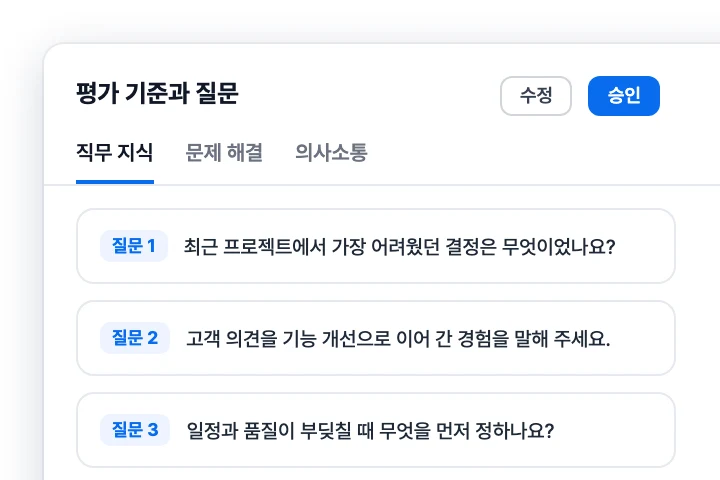
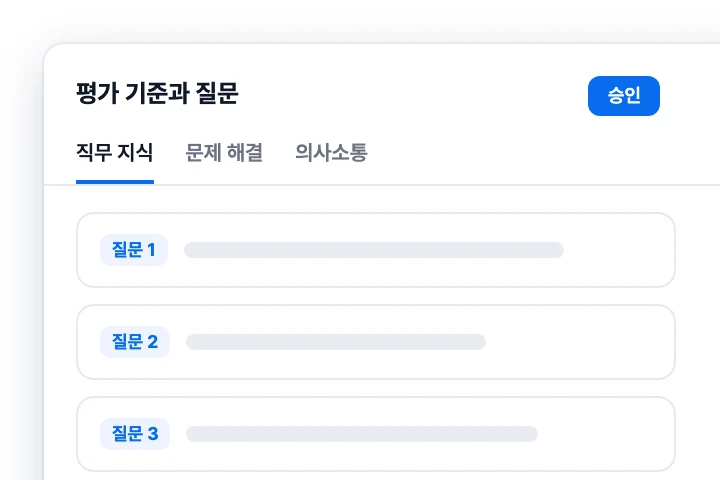
AI 면접 히어로 밝은 바탕으로 되돌림·두 줄 헤드카피·지원자 화면 축소, 도입 단계 이미지 단순화, 문제 띠 모션 느리게
AI 면접 히어로
- 바탕: 어두운 바탕이 답답하다는 피드백으로 다시 밝은 하늘색(ProductHero dark 옵션 삭제)
- 헤드카피 두 줄: "1차 면접은 AI에게, / 질문부터 리포트까지"(예전 문구는 첫 줄이 글 칸보다 길어 세 줄)
- 지원자 영상 칸 388×252 → 300×196(영상 영역 세로 가운데), 질문 패널을 넓힘, PIP·점선 위치 맞춤
- AI 면접관 오브: 뒤 연한 타일 배경 삭제, 색을 연하게

AI 면접 도입 3단계: STEP 01은 AI 역량검사 STEP 1과 같은 채용공고 입력 이미지,
STEP 02·03은 정보를 줄임(질문은 회색 막대, 수정 버튼·표 머리줄·인원수 삭제). 쓰지 않게 된 interview-step-type.webp 삭제

문제 띠 모션(두 페이지 공용): 10초 → 14초 주기, 간격 0.9 → 1.4초, 올라오고 내려가는 데 각 약 1.7초

diff --git a/app/landing.css b/app/landing.css
@@ -69,13 +69,6 @@
   .phero-cta{display:flex;align-items:center;gap:22px;flex-wrap:wrap;margin-top:34px}
   .phero-link{display:inline-flex;align-items:center;gap:8px;font-weight:700;font-size:15px;color:var(--blue-d)}
   .phero-link:hover{color:var(--ink)}
-  /* 어두운 히어로(ProductHero dark — AI 면접, 11/25): AI 역량검사 문제 띠(.band.dark)와 같은 남색→블랙 세로 그라데이션. 흰 화면 이미지와 대비 */
-  .phero.dark{background:linear-gradient(180deg,#13214A 0%,#0A1129 45%,#030509 100%)}
-  .phero.dark h1{color:#fff}
-  .phero.dark p{color:#B9BDC7}
-  .phero.dark .phero-name{color:#DCE7FF;background:rgba(255,255,255,.08)}
-  .phero.dark .phero-link{color:#C9D7FF}
-  .phero.dark .phero-link:hover{color:#fff}
   .phero-media img{display:block;width:100%;height:auto}
   /* 히어로 레이어 모션(2026-11-25, AI 역량검사 — ProductHero의 layers·lines): 바탕 위에 같은 크기 투명 레이어를 겹치고,
      AI 어시스턴트 카드는 위→아래, 보고서 카드는 아래→위, 칩은 왼쪽→오른쪽으로 화면 쪽에 모였다 돌아온다. 점선은 화면 쪽으로 흐른다 */
@@ -603,14 +596,15 @@
   .pair-ck{width:20px;height:20px;margin-top:.1em;border-radius:50%;background:var(--blue);position:relative;flex:none}
   .pair-ck::after{content:"";position:absolute;left:7px;top:4px;width:4.5px;height:9px;border:solid #fff;border-width:0 2px 2px 0;transform:rotate(45deg)}
   @media(max-width:760px){.pair-grid{grid-template-columns:minmax(0,1fr);gap:14px;margin-top:36px}.pair-prob p{font-size:15px}.pair-sol{font-size:14.5px}}
-  /* 모션(11/25): 체크 박스가 01→02→03 차례로 아래에서 올라와 문제 카드를 덮고, 셋 다 덮인 뒤 차례로 내려간다(10초 주기, 0.9초 간격).
+  /* 모션(11/25): 체크 박스가 01→02→03 차례로 아래에서 올라와 문제 카드를 덮고, 셋 다 덮인 뒤 차례로 내려간다.
+     "속도를 천천히"(11/25): 10초 → 14초 주기, 간격 0.9 → 1.4초, 올라오고 내려가는 데 각 약 1.7초, 셋 다 덮인 채 약 3.6초.
      화면에 보일 때만(.moving, PairGrid) 움직이고 들어올 때마다 처음(문제 카드만)부터 다시 시작한다 */
-  .pair-grid.moving .pair-sol{animation:pairRise 10s cubic-bezier(.4,0,.2,1) infinite}
-  .pair-grid.moving .pair-prob{animation:pairDim 10s ease-in-out infinite}
-  .pair-grid.moving .pair:nth-child(2) .pair-sol,.pair-grid.moving .pair:nth-child(2) .pair-prob{animation-delay:.9s}
-  .pair-grid.moving .pair:nth-child(3) .pair-sol,.pair-grid.moving .pair:nth-child(3) .pair-prob{animation-delay:1.8s}
-  @keyframes pairRise{0%,16%{opacity:0;transform:translateY(56px);box-shadow:0 0 0 0 rgba(51,106,255,0)}24%,70%{opacity:1;transform:translateY(0);box-shadow:0 18px 40px -12px rgba(51,106,255,.9)}78%,100%{opacity:0;transform:translateY(56px);box-shadow:0 0 0 0 rgba(51,106,255,0)}}
-  @keyframes pairDim{0%,18%{opacity:1}24%,70%{opacity:0}76%,100%{opacity:1}}
+  .pair-grid.moving .pair-sol{animation:pairRise 14s cubic-bezier(.4,0,.2,1) infinite}
+  .pair-grid.moving .pair-prob{animation:pairDim 14s ease-in-out infinite}
+  .pair-grid.moving .pair:nth-child(2) .pair-sol,.pair-grid.moving .pair:nth-child(2) .pair-prob{animation-delay:1.4s}
+  .pair-grid.moving .pair:nth-child(3) .pair-sol,.pair-grid.moving .pair:nth-child(3) .pair-prob{animation-delay:2.8s}
+  @keyframes pairRise{0%,14%{opacity:0;transform:translateY(56px);box-shadow:0 0 0 0 rgba(51,106,255,0)}26%,72%{opacity:1;transform:translateY(0);box-shadow:0 18px 40px -12px rgba(51,106,255,.9)}84%,100%{opacity:0;transform:translateY(56px);box-shadow:0 0 0 0 rgba(51,106,255,0)}}
+  @keyframes pairDim{0%,16%{opacity:1}26%,72%{opacity:0}82%,100%{opacity:1}}
   /* 움직임 줄이기 설정: 체크 박스를 문제 카드 아래에 그대로 보여 준다 */
   @media(prefers-reduced-motion:reduce){.pair{gap:12px}.pair-sol{position:static;opacity:1;transform:none;justify-content:flex-start}.pair-grid.moving .pair-sol,.pair-grid.moving .pair-prob{animation:none}}
   .band .head{text-align:center;max-width:760px;margin:0 auto}

diff --git a/app/ai-interview/page.tsx b/app/ai-interview/page.tsx
@@ -47,10 +47,10 @@ const TYPES = [
 ];
 
 // 06 · 도입 3단계 — AI 역량검사 '과제 만들기'처럼 카드 아래 화면 이미지(아이콘 없음, 11/25).
-// STEP 01은 실제 캡처(새 프로젝트 · 면접 유형 선택, 인재상 기반 카드는 잘라 냄), 02·03은 캡처가 없어 같은 스타일로 그림 — _docs/홈페이지 개편/도식/캡처가공
+// STEP 01은 AI 역량검사 STEP 1과 같은 채용공고 입력 이미지, 02·03은 캡처가 없어 같은 스타일로 그리고 정보를 최대한 줄임(질문은 회색 막대) — _docs/홈페이지 개편/도식/캡처가공
 const START = [
-  { title: "채용공고 등록", body: <>직무 기술서를 넣거나<br />이력서 기반 면접을 고릅니다.</>, img: "/interview-step-type.webp", alt: "새 프로젝트 만들기 화면: 채용공고 기반 면접과 이력서 기반 면접 중 면접 유형 선택" },
-  { title: "AI가 기준·질문 생성", body: <>AI가 평가 기준과 질문을 만들고<br />채용팀이 고치거나 승인합니다.</>, img: "/interview-step-criteria.webp", alt: "평가 기준과 질문 화면: 평가 항목별 질문 목록과 수정·승인 버튼" },
+  { title: "채용공고 등록", body: <>직무 기술서를 넣거나<br />이력서 기반 면접을 고릅니다.</>, img: "/assessment-step-jd.webp", alt: "채용공고 입력 화면: 직무 기술서의 요구사항을 넣는 칸" },
+  { title: "AI가 기준·질문 생성", body: <>AI가 평가 기준과 질문을 만들고<br />채용팀이 고치거나 승인합니다.</>, img: "/interview-step-criteria.webp", alt: "평가 기준과 질문 화면: 평가 항목 탭과 질문 목록, 승인 버튼" },
   { title: "링크 보내고 리포트 받기", body: <>지원자에게 링크를 보내면<br />응시가 끝나는 대로 리포트가 옵니다.</>, img: "/interview-step-invite.webp", alt: "지원자 목록 화면: 응시를 마친 지원자의 리포트 보기" },
 ];
 
@@ -97,8 +97,8 @@ export default function AiInterviewPage() {
       {/* 01 · 히어로 */}
       <ProductHero
         name="AI 면접"
-        dark // 어두운 바탕(AI 역량검사 문제 띠와 같은 남색→블랙) — 밝은 바탕에 어두운 화면인 AI 역량검사 히어로와 대비(11/25)
-        title={<>1차 면접,<br />질문부터 리포트까지<br /><span className="blue">AI</span>가 진행합니다</>}
+        // 헤드카피 두 줄(11/25) — "1차 면접, 질문부터 리포트까지 / AI가 진행합니다"는 첫 줄이 글 칸(약 520px)보다 길어 세 줄이 되어 문구를 다듬음
+        title={<>1차 면접은 <span className="blue">AI</span>에게,<br />질문부터 리포트까지</>}
         lead="채용공고를 넣으면 평가 기준과 질문을 만들고, 지원자 답변에 꼬리질문을 이어 갑니다. 채용팀은 리포트를 보고 만날 사람을 정합니다."
         img="/hero-interview-base.webp"
         alt="AI 면접 화면: AI 면접관이 질문과 꼬리질문을 하고, 지원자 답변을 분석해 종합 등급과 역량 막대가 있는 AI 면접 리포트로 정리하는 모습"
@@ -110,8 +110,8 @@ export default function AiInterviewPage() {
           { src: "/hero-interview-chip.webp", move: "right" },
         ]}
         lines={[
-          { d: "M403 197 V225", dot: [403, 227] },
-          { d: "M300 264 V232", dot: [300, 230] },
+          { d: "M315 197 V221", dot: [315, 223] },
+          { d: "M250 264 V234", dot: [250, 232] },
         ]}
       />
 

diff --git a/components/ProductHero.tsx b/components/ProductHero.tsx
@@ -13,9 +13,9 @@ export type HeroLine = { d: string; dot: [number, number] };
  * 이미지 원본은 _docs/홈페이지 개편/도식/캡처가공/make.mjs — AI 역량검사는 실제 응시 화면을 가공한 레이어(hero-l-*: 화면·AI 어시스턴트·보고서·칩,
  * 글은 '파일 1, 2, 3' 같은 일반 내용), AI 면접은 AI 역량검사와 구분되는 흰 화면을 캡처 배치대로 그린 레이어(iv3-l-*: 화면·AI 면접관 오브 카드·리포트·칩).
  * layers를 주면 img를 바탕으로 레이어를 겹쳐 그리고 움직인다(움직임 줄이기 설정이면 멈춤). 스타일은 app/landing.css(.phero).
- * dark를 주면 어두운 바탕(문제 띠와 같은 남색→블랙)에 흰 글씨 — AI 면접(2026-11-25, 밝은 바탕에 어두운 화면인 AI 역량검사와 대비). 이때만 data-nav="dark"로 GNB를 흰 로고로 반전한다.
+ * data-nav를 두지 않는다 — 밝은 바탕이라 GNB를 반전하지 않는다(AI 면접에 어두운 바탕을 잠깐 썼다가 "답답하다"는 피드백으로 되돌림, 11/25).
  */
-export default function ProductHero({ name, isNew = false, title, lead, img, alt, layers, lines, dark = false }: {
+export default function ProductHero({ name, isNew = false, title, lead, img, alt, layers, lines }: {
   name: string;
   isNew?: boolean;
   title: ReactNode;
@@ -24,10 +24,9 @@ export default function ProductHero({ name, isNew = false, title, lead, img, alt
   alt: string;
   layers?: HeroLayer[];
   lines?: HeroLine[];
-  dark?: boolean;
 }) {
   return (
-    <section className={dark ? "phero dark" : "phero"} id="hero" data-nav={dark ? "dark" : undefined}>
+    <section className="phero" id="hero">
       <div className="wrap phero-grid">
         <div className="phero-text">
           <span className="phero-name">{name}{isNew && <span className="prod-new">NEW</span>}</span>

diff --git a/CLAUDE.md b/CLAUDE.md
@@ -26,7 +26,7 @@ Supercoder AI 웹사이트 — **AIVIEW** 제품 랜딩 + 블로그/도입문의
   - `app/privacy`, `app/terms`, `app/terms-applicant` — 법적 페이지(서버). `app/not-found.tsx` — 404.
 - **공유 디자인 토큰·컴포넌트 CSS는 `app/globals.css` (SSOT).** `:root` 변수(`--blue`,`--ink`,`--soft`,`--r`,`--shadow` 등)·버튼(`.btn*`)·`.eyebrow`·GNB(`header`/`nav`)·푸터(`footer`)·모달(`.bro-*`)·챗봇(`.cbot*`)·법적 페이지(`.legal`)가 모두 여기. 루트 `layout.tsx`에서 1회 import. **공유 컴포넌트를 바꿀 땐 `app/globals.css`만 고치면 전 페이지가 함께 바뀐다.**
 - **페이지 고유 CSS는 라우트 폴더에 co-located** (`app/landing.css`, `app/apply/apply.css`, `app/blog/blog.css`, `app/blog/[id]/post.css`, `app/admin/admin.css`). 해당 page에서 import. 클래스는 전역 스코프(원본 정적 사이트와 동일 동작).
-- **공유 컴포넌트(`components/`):** `SiteHeader`(섹션 인지형 GNB·메뉴. '제품▾' 펼침 메뉴 항목은 `PRODUCTS` 배열 하나를 데스크톱·모바일이 함께 쓴다), `SiteFooter`, `Chatbot`(FAQ 챗봇), `HeroParticles`(canvas 입자 모션, 히어로·CTA 공용), `Analytics`·`UtmCapture`·`ViewCounter`. 모두 `layout.tsx`에 마운트되거나 page에서 사용. `"use client"`. 홈·제품 페이지가 같이 쓰는 섹션은 서버 컴포넌트 `PageHero`(홈 전용 다크 히어로, 강조어는 `HeroWord`)·`ProductHero`(제품 상세 페이지 히어로 — 밝은 바탕 + 오른쪽 제품 이미지 `public/hero-*.webp`, `dark`를 주면 어두운 바탕(문제 띠 `.band.dark`와 같은 남색→블랙) — AI 면접은 어두운 바탕 + 흰 화면으로 AI 역량검사(밝은 바탕 + 어두운 화면)와 대비. AI 역량검사는 실제 응시 화면 캡처를 가공한 것(어두운 화면), AI 면접은 그와 구분되는 흰 화면을 캡처 배치대로 그린 것 — 둘 다 `_docs/홈페이지 개편/도식/캡처가공/make.mjs`. `layers`·`lines`를 주면 바탕 위에 투명 레이어를 겹쳐 레이어마다 움직인다 — AI 역량검사는 `public/hero-assessment-*.webp`, AI 면접은 `public/hero-interview-*.webp`(화면·AI 면접관 카드·리포트·칩).)·`StepFlow`(3단계 카드 줄, 단계마다 `img`를 주면 카드 아래에 실제 화면을 꽉 차게 붙인다 — `.pstep.has-shot`)·`TeamSection`(채용팀 기능, 두 제품 공용)·`ClientLogos`(도입사 로고 마퀴)·`ReportRows`(리포트 4종)·`IntegritySection`(부정행위 감지 — 왼쪽 감지 항목 6개, 오른쪽 HTML '감지 내역' 예시 카드, 홈은 `withLink`)·`SecuritySection`(좌우 분할 — 왼쪽 제목·ISO 인증 마크, 오른쪽 보안 항목 목록)·`FaqList`(FAQ 목록)·`SoftCta`(중간 안내 한 줄+버튼 — 홈 서비스소개서 안내)·`NextProductCard`(제품 페이지 끝 다른 제품 안내, 상대 제품 도식 썸네일 카드)·`FinalCta`(마지막 CTA, `points`를 주면 버튼 아래 차별점 띠 — AI 역량검사) — 스타일은 `app/landing.css`. 제품 이름·주소·한 줄 설명·도식 썸네일은 `lib/products.ts`(GNB·푸터·홈 카드·NextProductCard 공용), ISO 인증 목록은 `lib/certs.ts`(푸터·보안 섹션 공용). 제품 문구의 사실 근거·금지 표현은 `_docs/홈페이지 개편/AI면접_AI역량검사_차이_소개자료.md`. ⚠ `CostCalculator.tsx`는 **어디에도 마운트돼 있지 않다**(미사용). 소개서 리드는 옛 `BrochureModal`이 아니라 `app/brochure/` 라우트가 담당한다.
+- **공유 컴포넌트(`components/`):** `SiteHeader`(섹션 인지형 GNB·메뉴. '제품▾' 펼침 메뉴 항목은 `PRODUCTS` 배열 하나를 데스크톱·모바일이 함께 쓴다), `SiteFooter`, `Chatbot`(FAQ 챗봇), `HeroParticles`(canvas 입자 모션, 히어로·CTA 공용), `Analytics`·`UtmCapture`·`ViewCounter`. 모두 `layout.tsx`에 마운트되거나 page에서 사용. `"use client"`. 홈·제품 페이지가 같이 쓰는 섹션은 서버 컴포넌트 `PageHero`(홈 전용 다크 히어로, 강조어는 `HeroWord`)·`ProductHero`(제품 상세 페이지 히어로 — 밝은 바탕 + 오른쪽 제품 이미지 `public/hero-*.webp`, 두 제품 모두 밝은 바탕 — AI 역량검사는 어두운 화면, AI 면접은 흰 화면 이미지로 구분한다. AI 역량검사는 실제 응시 화면 캡처를 가공한 것(어두운 화면), AI 면접은 그와 구분되는 흰 화면을 캡처 배치대로 그린 것 — 둘 다 `_docs/홈페이지 개편/도식/캡처가공/make.mjs`. `layers`·`lines`를 주면 바탕 위에 투명 레이어를 겹쳐 레이어마다 움직인다 — AI 역량검사는 `public/hero-assessment-*.webp`, AI 면접은 `public/hero-interview-*.webp`(화면·AI 면접관 카드·리포트·칩).)·`StepFlow`(3단계 카드 줄, 단계마다 `img`를 주면 카드 아래에 실제 화면을 꽉 차게 붙인다 — `.pstep.has-shot`)·`TeamSection`(채용팀 기능, 두 제품 공용)·`ClientLogos`(도입사 로고 마퀴)·`ReportRows`(리포트 4종)·`IntegritySection`(부정행위 감지 — 왼쪽 감지 항목 6개, 오른쪽 HTML '감지 내역' 예시 카드, 홈은 `withLink`)·`SecuritySection`(좌우 분할 — 왼쪽 제목·ISO 인증 마크, 오른쪽 보안 항목 목록)·`FaqList`(FAQ 목록)·`SoftCta`(중간 안내 한 줄+버튼 — 홈 서비스소개서 안내)·`NextProductCard`(제품 페이지 끝 다른 제품 안내, 상대 제품 도식 썸네일 카드)·`FinalCta`(마지막 CTA, `points`를 주면 버튼 아래 차별점 띠 — AI 역량검사) — 스타일은 `app/landing.css`. 제품 이름·주소·한 줄 설명·도식 썸네일은 `lib/products.ts`(GNB·푸터·홈 카드·NextProductCard 공용), ISO 인증 목록은 `lib/certs.ts`(푸터·보안 섹션 공용). 제품 문구의 사실 근거·금지 표현은 `_docs/홈페이지 개편/AI면접_AI역량검사_차이_소개자료.md`. ⚠ `CostCalculator.tsx`는 **어디에도 마운트돼 있지 않다**(미사용). 소개서 리드는 옛 `BrochureModal`이 아니라 `app/brochure/` 라우트가 담당한다.
 - **섹션 = 랜딩 구조 (정의된 이름·번호·id).** `app/page.tsx`는 번호 매겨진 섹션 스택이다. 정식 목록(2026-11 개편): 01 히어로(`#hero`), 02 도입사(`#clients`), 03 문제·FLOOD(`#flood`), 04 해결·제품 2종(`#products`, 옛 VALUE 자리), 05 역할·ROLE(`#role`, 깔때기 SVG), 06 작동 방식·리포트 4종+도입 3단계(`#how`), 07 부정행위 감지(`#integrity`), 08 보안(`#security`), 09 성과·PROOF(`#proof`), 10 후기(`#voices`), 11 FAQ(`#faq`), 12 마지막 CTA(`#final`). 배경은 흰색↔연한 블루가 번갈아 오도록 둔다(공용 섹션 틀 `.band`/`.band.soft`). GNB는 섹션 앵커를 쓰지 않는다 — 메뉴는 제품▾(`/ai-interview`·`/ai-assessment`)·블로그·서비스소개서·이벤트(2026-11-24). 부정행위 감지·보안은 메뉴가 아니라 홈·제품 페이지 본문에서 보여준다.
 - **섹션 인지형 GNB:** `[data-nav="dark"]` 섹션(히어로·FINAL) 위에선 헤더 반전(흰 로고). 색 전환 클래스(`header.nav-invert`/`.nav-solid`)는 `globals.css`(SSOT), 감지 로직은 `SiteHeader.tsx`의 `syncHeader`.
 - **폰트·아이콘은 자체 호스팅 서브셋(2026-08-10 성능 최적화):** `layout.tsx`가 `pretendard.css`(woff2 청크만 jsdelivr)와 `fontawesome.css`를 import한다. 아이콘은 `<i className="fa-...">`로 쓰되, **`app/fontawesome.css`에 정의된 아이콘만 쓸 수 있다** — `public/fonts/`의 woff2도 pyftsubset으로 잘라낸 상태라 목록에 없는 이름을 쓰면 버튼은 동작해도 글리프가 렌더되지 않는다(2026-08-21 `fa-flask` 사례). 새 아이콘이 꼭 필요하면 CSS 룰 추가 + 폰트 재서브셋이 함께 필요하다. Supabase는 `@supabase/supabase-js`(npm).
